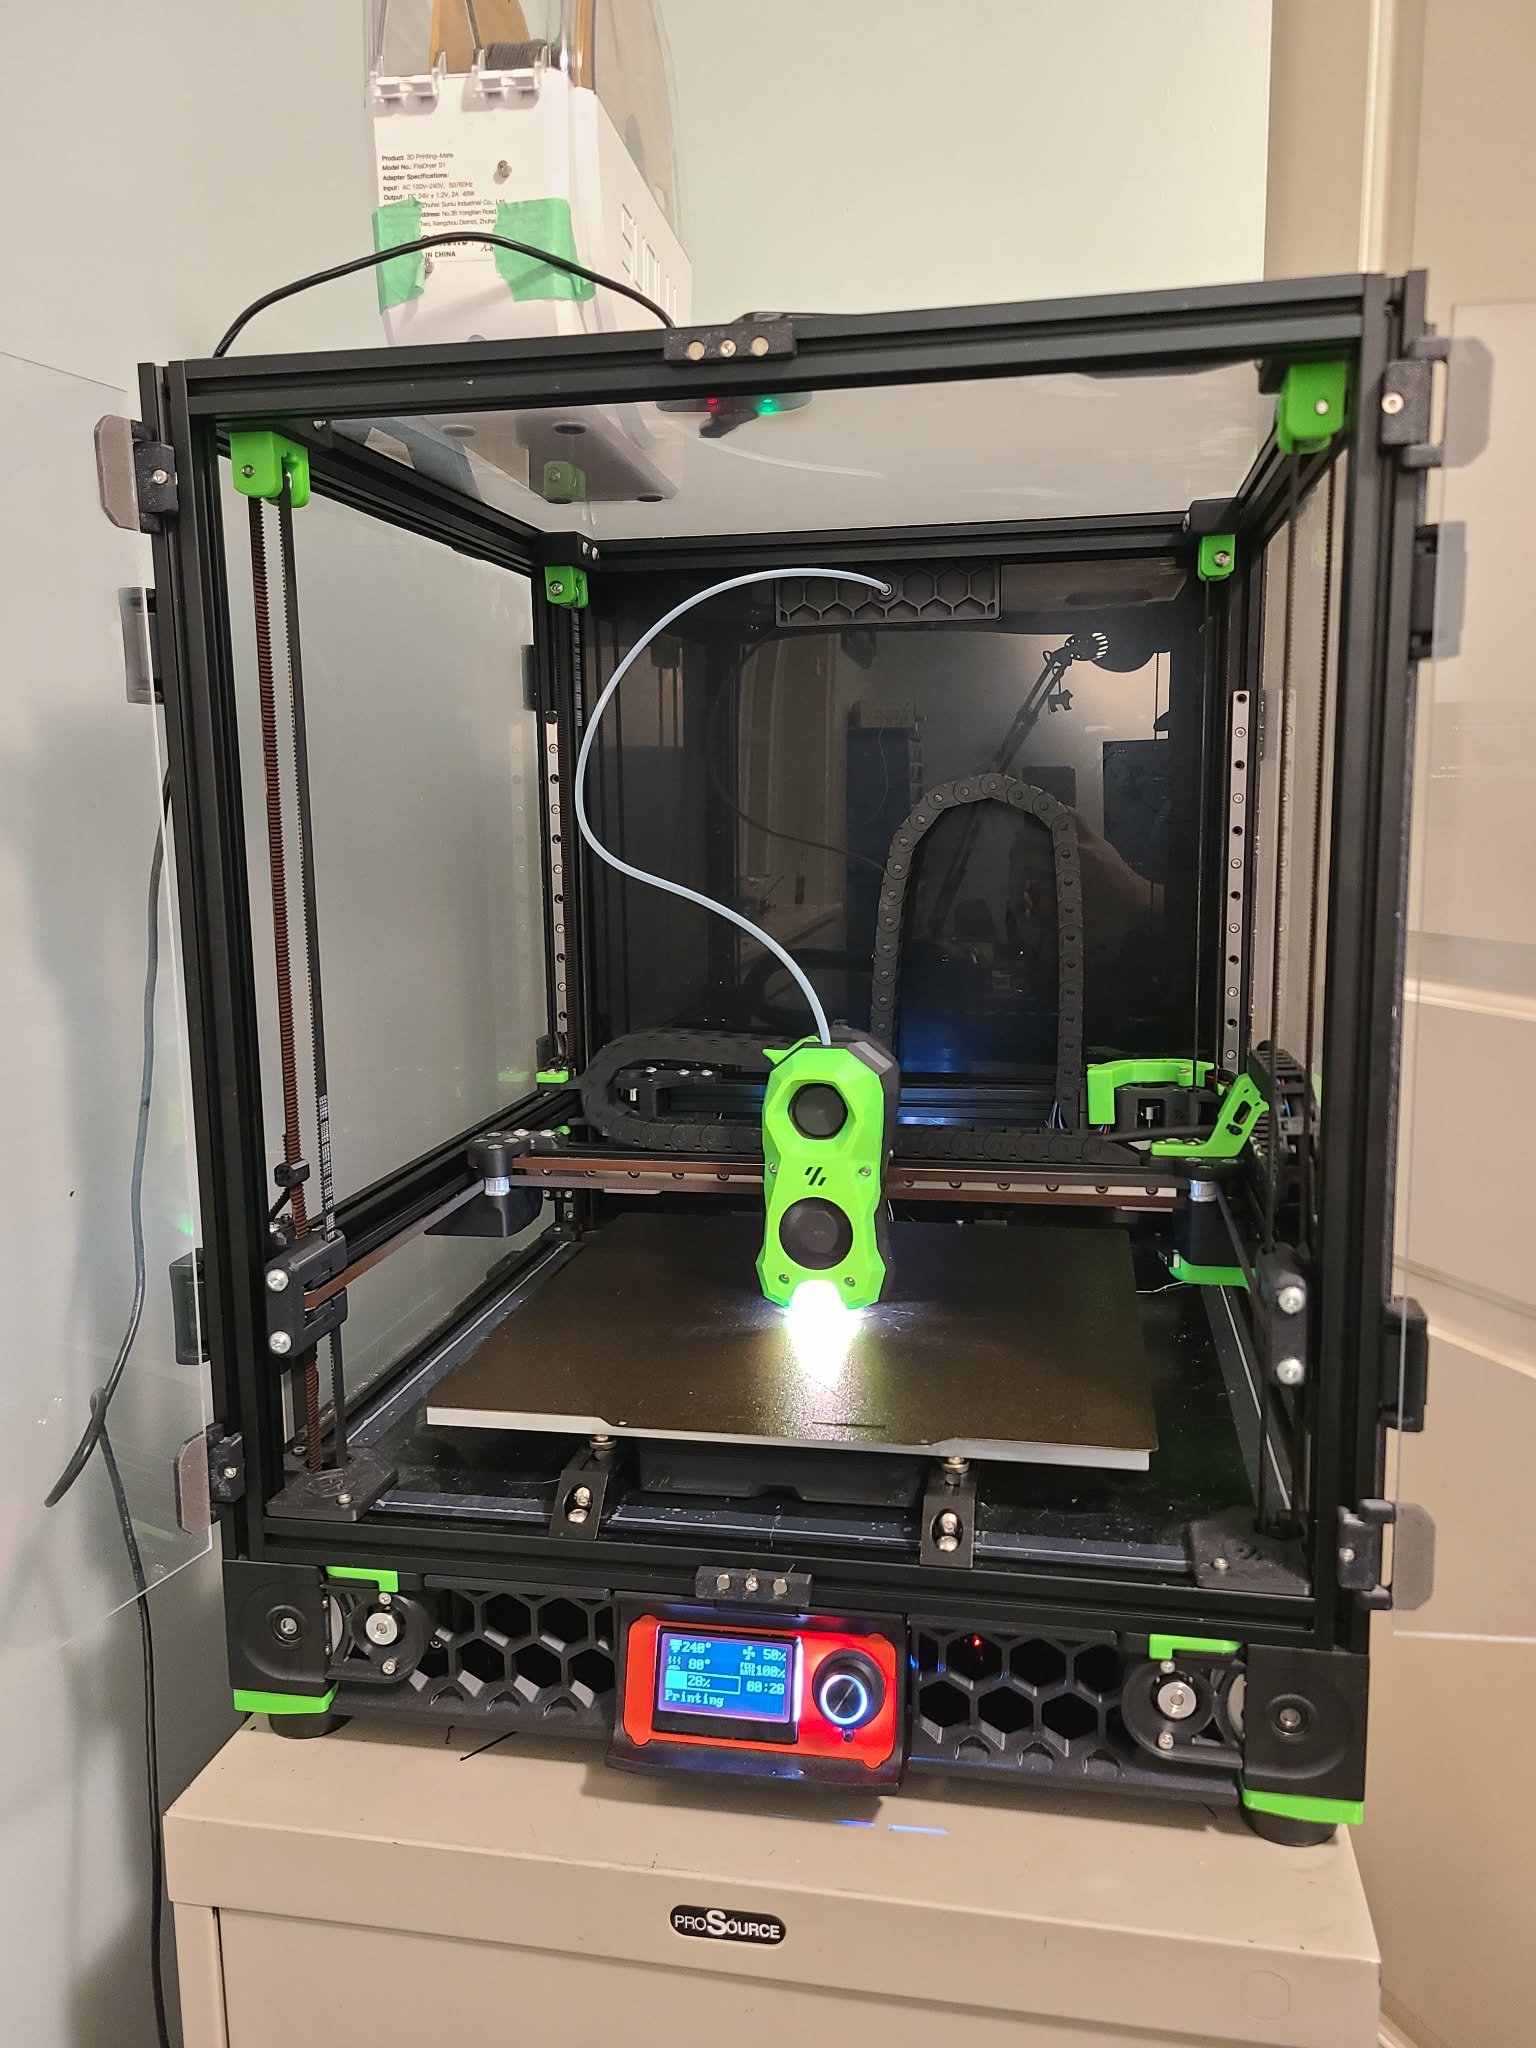
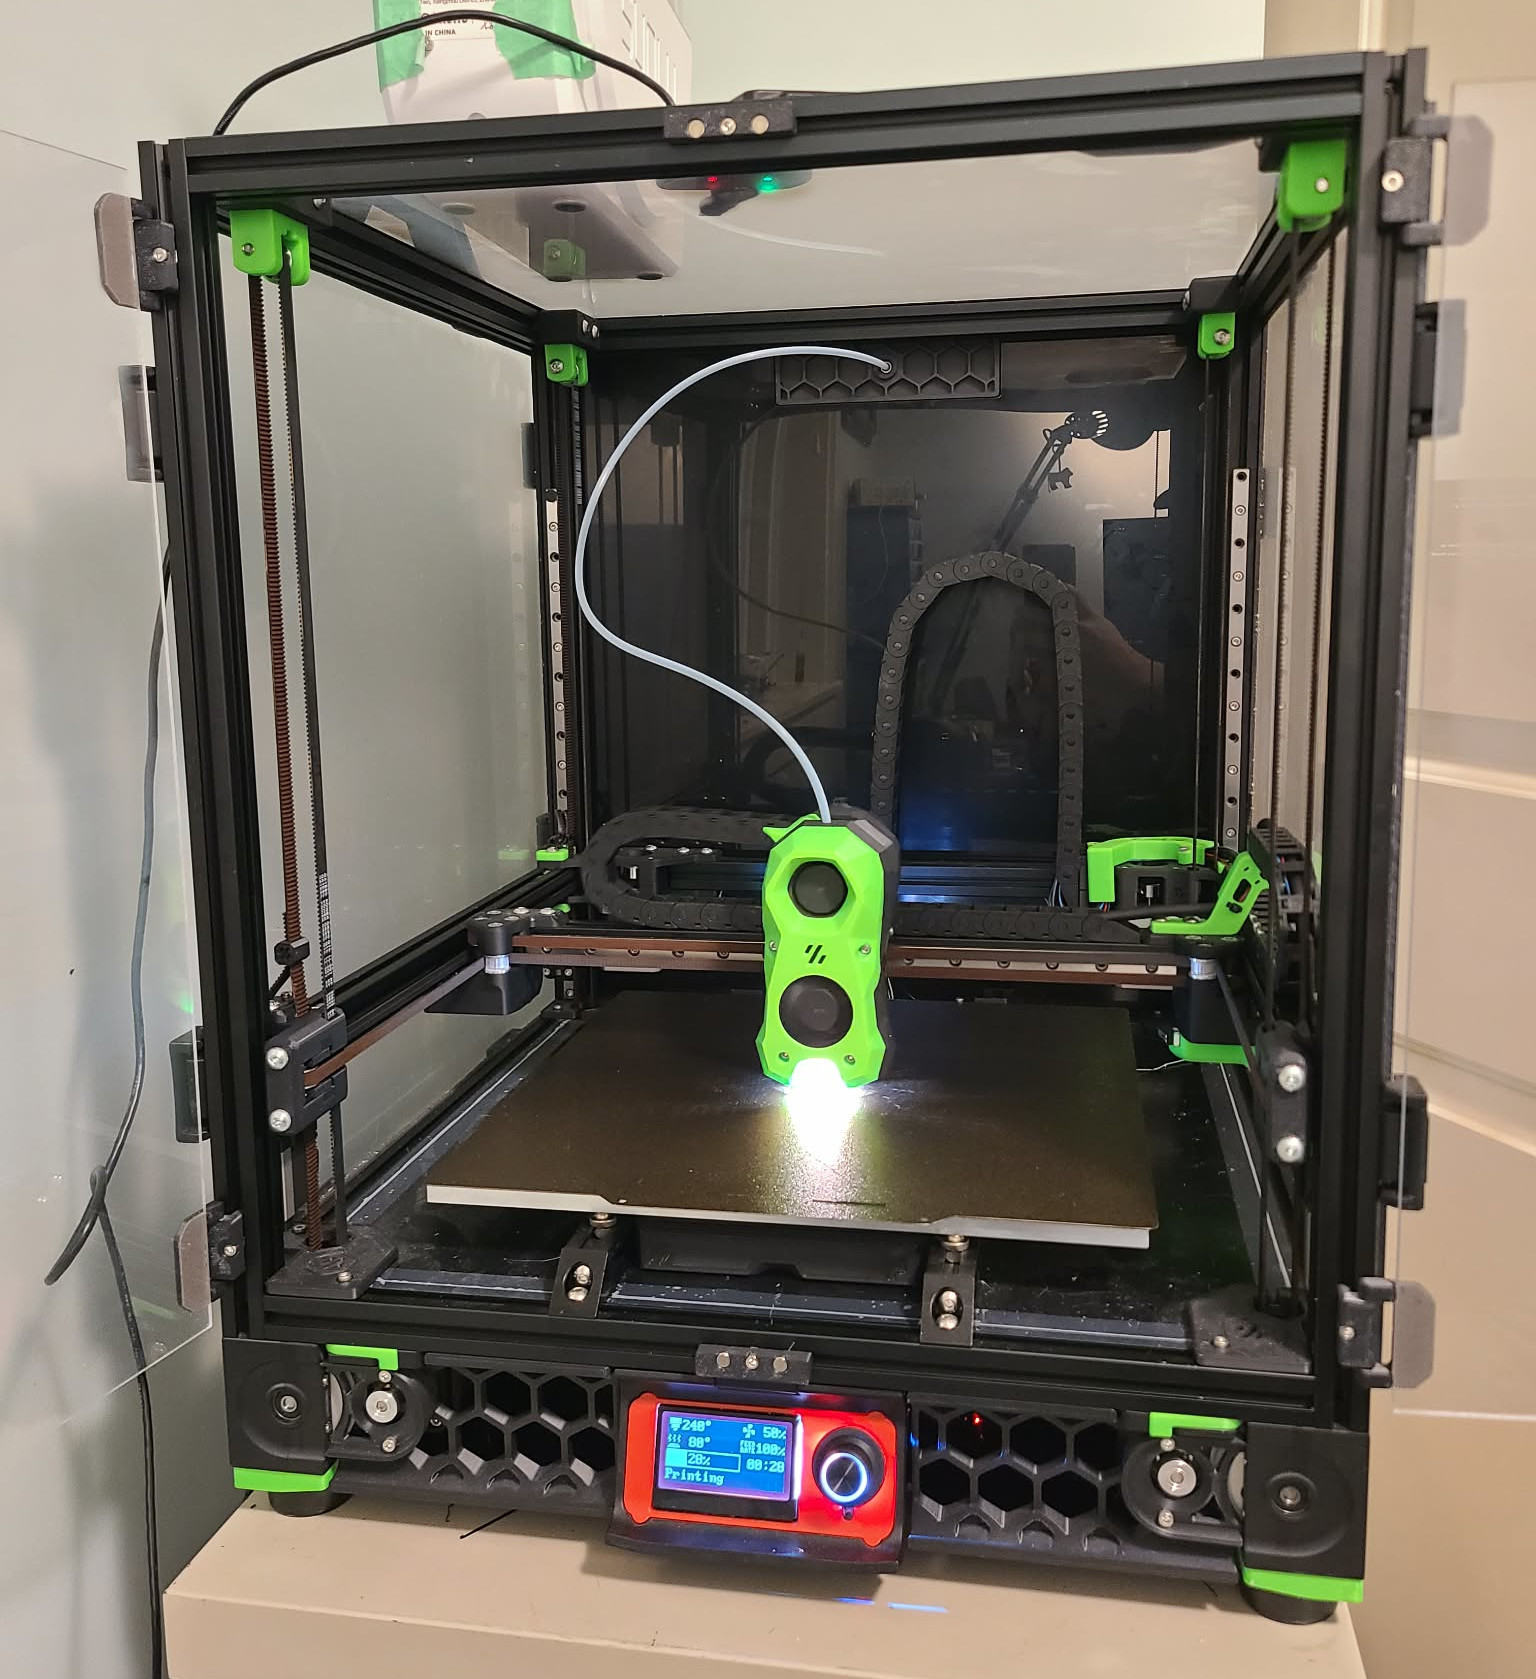
proper images and gif

diff --git a/projects/3dprinter/3dprinter.html b/projects/3dprinter/3dprinter.html
@@ -60,7 +60,7 @@ I made all of the non-standard parts out of wood because, well, I didn't have a 
 Slowly, I was able to bootstrap the printer. I replaced most wooden parts with 3D printed ones; taking my time to learn <a href="https://www.freecad.org/">FreeCAD</a>.
 
 <br><br>
-<img src="images/3D Printer Bootstrapped.gif" style="width:70%;margin-left:auto;margin-right:auto;display:block;"></img>
+<img src="images/3D Printer Bootstrapped.gif" style="width:40%;margin-left:auto;margin-right:auto;display:block;"></img>
 <br>
 
 I was 3D printing a lot but my design left lots to be desired.
@@ -74,7 +74,7 @@ Meticulously engineered printers where every issue either came with a community 
 I bought a Formbot 2.4R2 kit and named him Perry.
 
 <br><br>
-<img src="images/3D Printer Perry.jpeg" style="width:70%;margin-left:auto;margin-right:auto;display:block;"></img>
+<img src="images/3D Printer Perry.jpeg" style="width:50%;margin-left:auto;margin-right:auto;display:block;"></img>
 <br>
 
 At the time of writing, I have designed over 90 parts, all in <a href="https://www.freecad.org/">FreeCAD</a>.